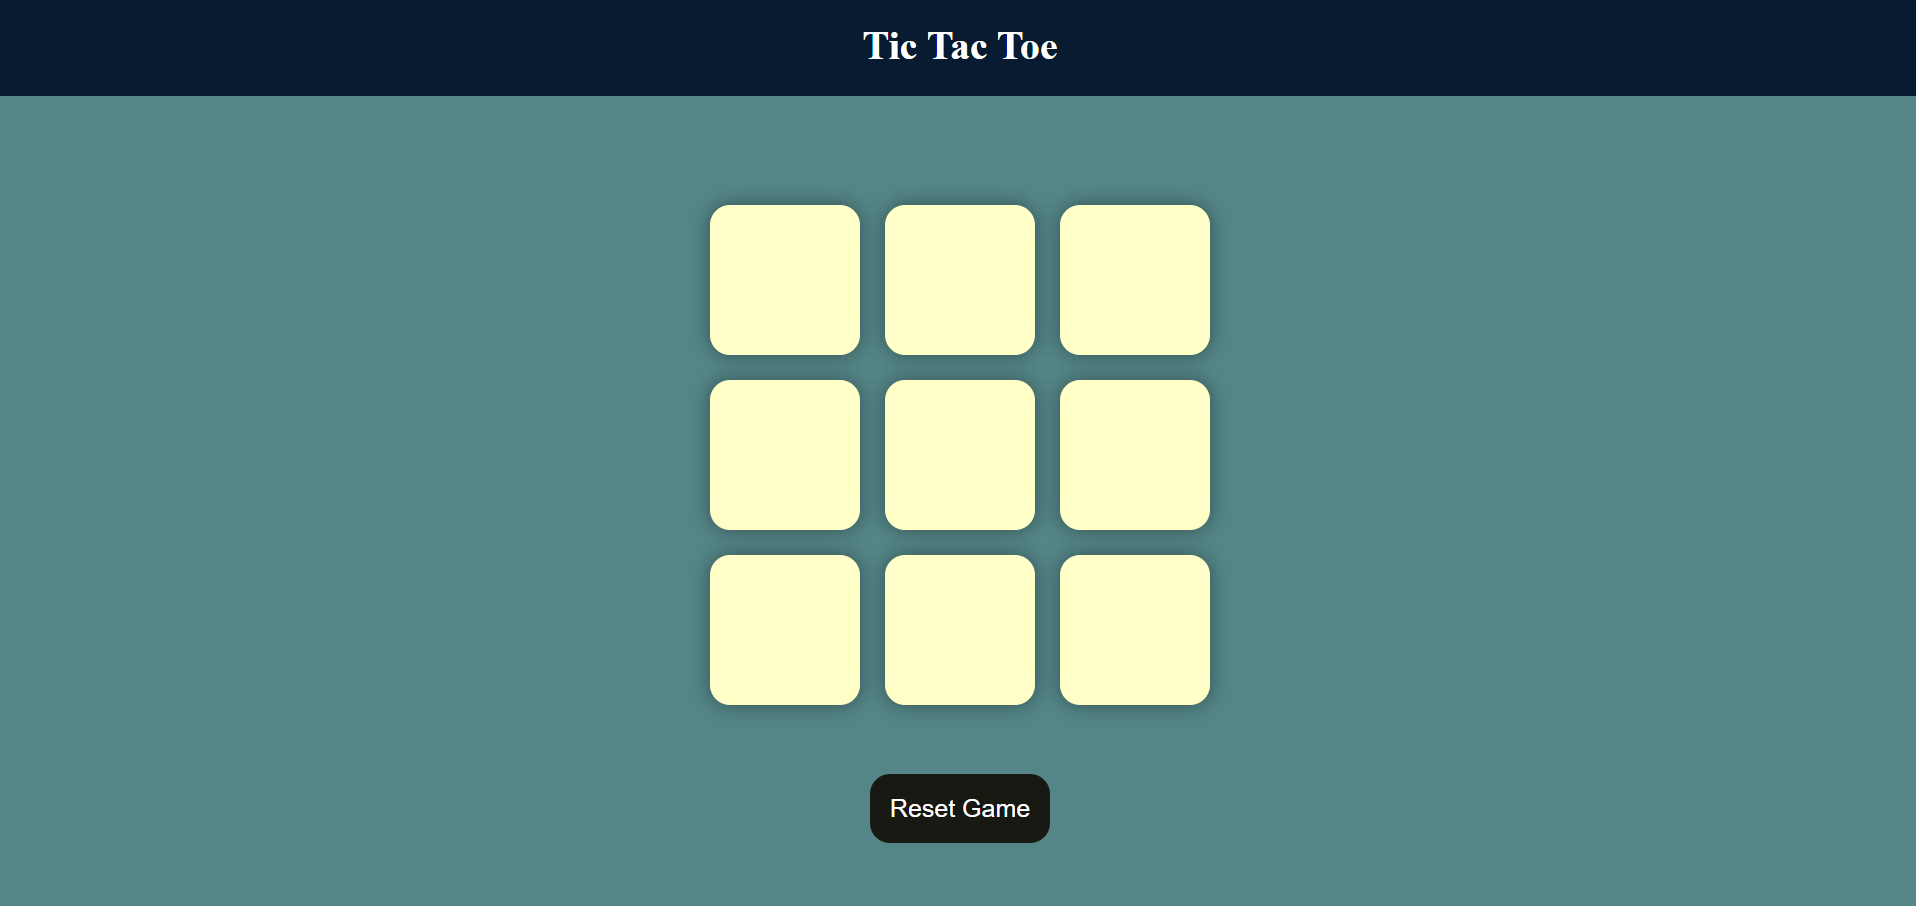
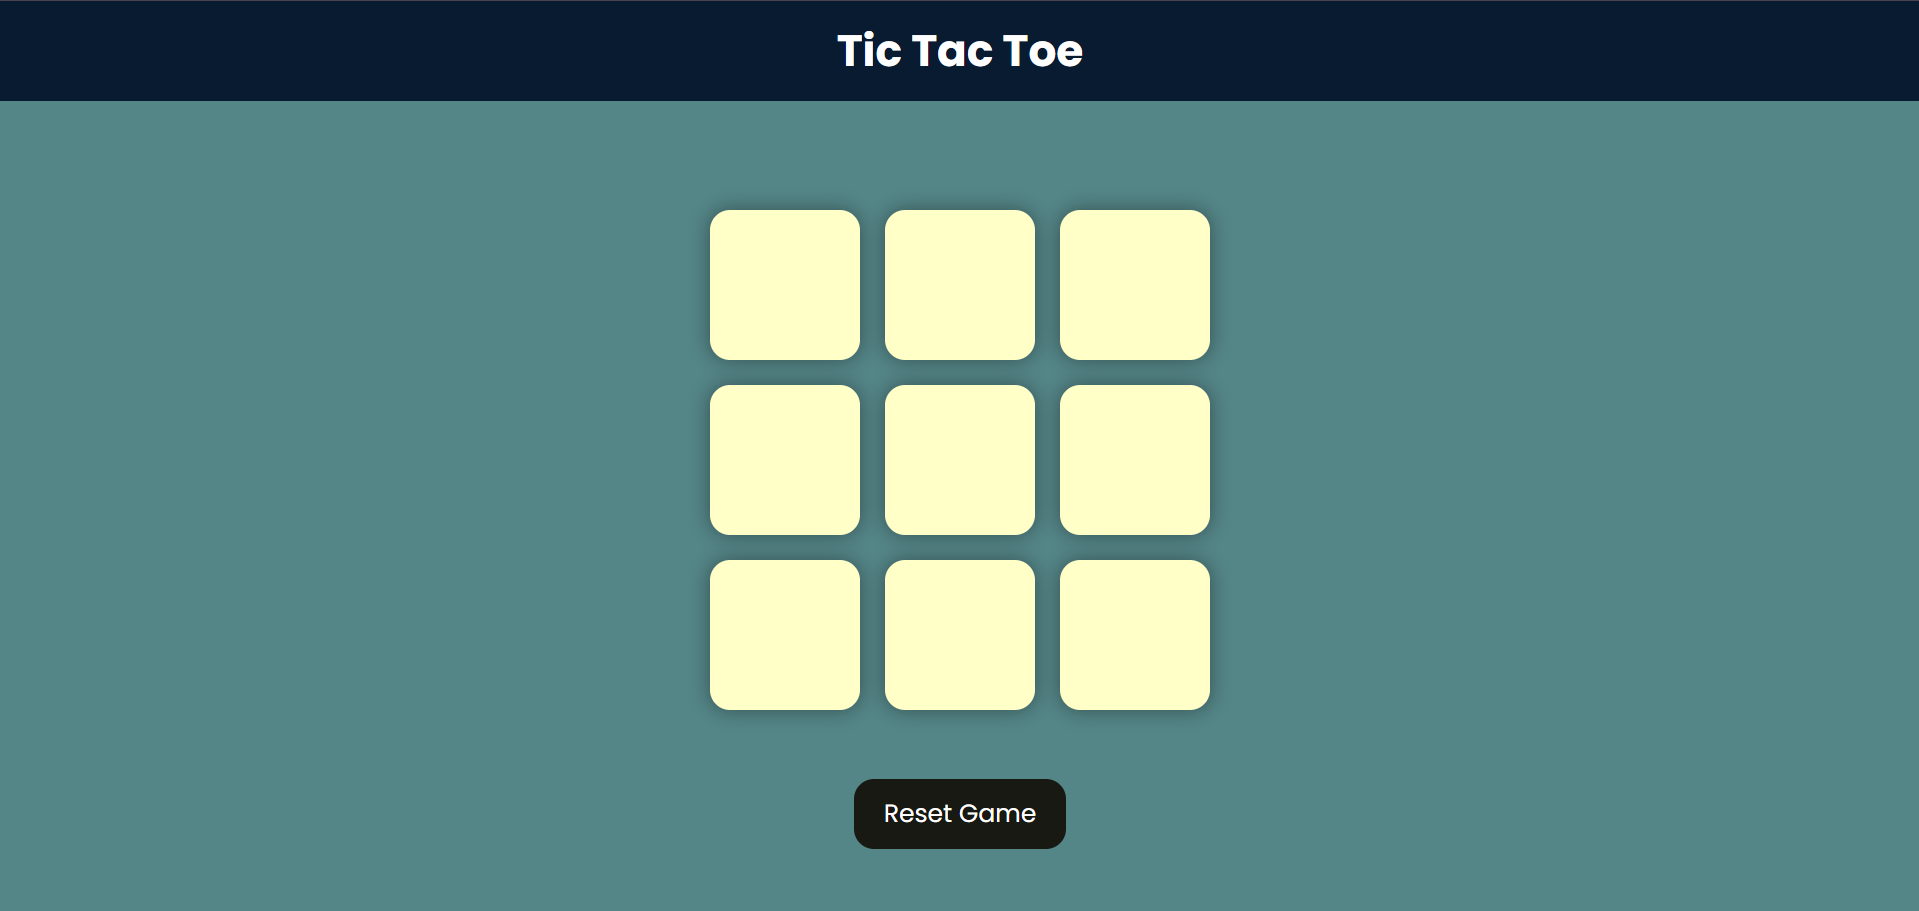
Added improvements

diff --git a/style.css b/style.css
@@ -1,8 +1,11 @@
+@import url('https://fonts.googleapis.com/css2?family=Poppins:wght@200;300;400;500;600;700&display=swap');
+
 * {
     margin: 0;
     padding: 0;
     user-select: none;
     box-sizing: border-box;
+    font-family: "Poppins", sans-serif;
 }
 
 body {
@@ -10,12 +13,17 @@ body {
     text-align: center;
 }
 
+/* heading */
+
 h1 {
     background: #081b31;
     color: #fff;
     height: 5rem;
     line-height: 5rem;
+    font-size: 35px;
 }
+
+/* container */
 
 .container {
     height: 70vh;
@@ -24,6 +32,8 @@ h1 {
     align-items: center;
     margin-top: 2rem;
 }
+
+/* game board */
 
 .game {
     height: 400px;
@@ -35,6 +45,8 @@ h1 {
     gap: 20px;
 }
 
+/* box */
+
 .box {
     height: 120px;
     width: 120px;
@@ -44,21 +56,34 @@ h1 {
     font-size: 8vmin;
     color: #b0413e;
     background: #ffffc7;
+    cursor: pointer;
 }
+
+/* color for moves */
 
 .color {
     color: green;
 }
 
-#reset-btn {
-    padding: 1rem;
+/* reset and new game button */
+
+#reset-btn,
+#new-btn {
+    padding: 0.8rem 1.5rem;
     font-size: 1.25rem;
     background: #191913;
     color: #fff;
     border-radius: 1rem;
     border: none;
     margin-bottom: 2rem;
+    cursor: pointer;
 }
+
+#new-btn {
+    margin-bottom: 0;
+}
+
+/* result */
 
 .msg-container {
     height: 100vh;
@@ -69,19 +94,12 @@ h1 {
     gap: 3rem;
 }
 
-#new-btn {
-    padding: 1rem;
-    font-size: 1.25rem;
-    background: #191913;
-    color: #fff;
-    border-radius: 1rem;
-    border: none;
-}
-
 #msg {
     color: #ffffc7;
     font-size: 35px;
 }
+
+/* hide class */
 
 .hide {
     display: none;
@@ -90,6 +108,10 @@ h1 {
 /* Responsiveness */
 
 @media (max-width: 500px) {
+
+    h1 {
+        font-size: 30px;
+    }
 
     .box {
         height: 110px;

diff --git a/script.js b/script.js
@@ -4,14 +4,17 @@ let newGameBtn = document.querySelector("#new-btn");
 let msgContainer = document.querySelector(".msg-container");
 let msg = document.querySelector("#msg");
 
+// first turn of O
 let turnO = true;
 
+// patterns of winning a match
 const winPatterns = [
     [0, 1, 2], [0, 3, 6], [0, 4, 8],
     [1, 4, 7], [2, 5, 8], [2, 4, 6],
     [3, 4, 5], [6, 7, 8],
 ];
 
+// reset game
 const resetGame = () => {
     count = 0;
     turnO = true;
@@ -21,6 +24,7 @@ const resetGame = () => {
 
 var count = 0;
 
+// moves
 boxes.forEach((box) => {
     box.addEventListener("click", () => {
 
@@ -49,12 +53,14 @@ boxes.forEach((box) => {
     });
 });
 
+// disable boxes
 const disableBoxes = () => {
     for (let box of boxes) {
         box.disabled = true;
     }
 };
 
+// enable boxes
 const enableBoxes = () => {
     for (let box of boxes) {
         box.disabled = false;
@@ -62,12 +68,14 @@ const enableBoxes = () => {
     }
 };
 
+// show winner
 const showWinner = (winner) => {
     msg.innerText = `Congratulations, Winner is ${winner}`;
     msgContainer.classList.remove("hide");
     disableBoxes();
 };
 
+// check winner
 const checkWinner = () => {
     for (let pattern of winPatterns) {
         let pos1Val = boxes[pattern[0]].innerText;

diff --git a/index.html b/index.html
@@ -41,6 +41,7 @@
 
     </main>
 
+    <!-- custom js -->
     <script src="script.js"></script>
 
 </body>
